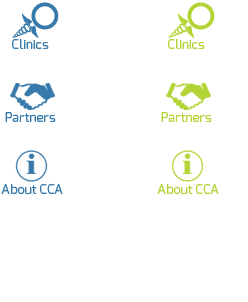
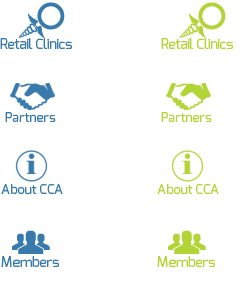
#26 - Changes & Enhancements

diff --git a/CCAMobile/Content/css/stylesheet.css b/CCAMobile/Content/css/stylesheet.css
@@ -137,7 +137,7 @@
 
 body {padding-left: 0px;padding-right:0px;background:#fff; font-family:exoregular; font-size:12px;}
 /*.body{background:#3ccdac;}*/
-#wrapper{position:absolute; z-index:1;bottom:55px; left:0;width:100%;overflow:auto;top:0px;}
+#wrapper{position:absolute; z-index:-1;bottom:55px; left:0;width:100%;overflow:auto;top:0px;}
 #scroller{position:absolute; z-index:1;/*	-webkit-touch-callout:none;*/-webkit-tap-highlight-color:rgba(0,0,0,0);width:100%;padding:0;}
 .cca_continer{padding:2px;}
 .cca_continer .row-fluid .span6 {width:50%; margin-left:0;}
@@ -147,7 +147,7 @@ body {padding-left: 0px;padding-right:0px;background:#fff; font-family:exoregula
 .clients_boxes img{display: table-cell;max-height: 40px; display:table-cell; margin:auto;vertical-align:middle;}
 .clients_boxes, .clients_box_big{ background:#fff; text-align: center; vertical-align: middle; }
 .clients_boxes img, .clients_box_big img{display: block; margin: auto;vertical-align: middle; padding-top: 10px; }
-.clients_box_big{min-height:154px; background:none; max-height:154px}
+.clients_box_big{ background:none;z-index:10}
 .cca_continer [class*="span"], .cca_continer .uneditable-input[class*="span"], .cca_continer .row-fluid [class*="span"] {float: left;}
 .header .row-fluid .span6, .header .row-fluid .span3 {margin-left:0; float:left;}
 .header .row-fluid .span6 {width:50%; }
@@ -164,16 +164,19 @@ body {padding-left: 0px;padding-right:0px;background:#fff; font-family:exoregula
 .marginT54{ margin-top:53px;}
 .marginT40{ margin-top:40px;}
 .footer {position:absolute; z-index:2;bottom:0; left:0;width:100%;height:55px; background: url(../images/footer_bg.png) repeat-x left top;padding:0;border-top:1px solid #1f3d54;}
-.footer div{ float:left;width: 33.33333%; text-align:center; color:#fff}
+.footer div{ float:left;width: 25%; text-align:center; color:#fff}
 .footer div a{ }
 .footer div a{  border-left:2px solid #003a64; height:54px; display:block; vertical-align:middle }
-.footer div a.clinic img{ background:url(../images/footer_icons.png) no-repeat left top;}
+.footer div a.clinic img{ background:url(../images/footer_icons.png) no-repeat 5px top;}
 .footer div a.partners img{ background:url(../images/footer_icons.png) no-repeat left -73px;}
 .footer div a.aboutcca img{ background:url(../images/footer_icons.png) no-repeat left -144px;}
+.footer div a.members img{ background:url(../images/footer_icons.png) no-repeat left -217px;}
 .footer div:hover a.clinic img, .footer div.active a.clinic img{ background:url(../images/footer_icons.png) no-repeat -156px top;}
 .footer div:hover a.partners img, .footer div.active a.partners img{ background:url(../images/footer_icons.png) no-repeat -156px -73px;}
 .footer div:hover a.aboutcca img, .footer div.active a.aboutcca img{ background:url(../images/footer_icons.png) no-repeat -156px -144px;}
+.footer div:hover a.members img, .footer div.active a.members img{ background:url(../images/footer_icons.png) no-repeat -156px -217px;}
 .footer div a img{ width:62px; height:54px;}
+.footer #clinicsTab a img{ width:84px; height:54px;}
 .switch_div{ margin: auto; width:40%; text-align: center}
 .register-switch {height: 32px;margin-top:5px;padding: 4px;background: url(../images/switch_bg.png) repeat-x left top;border-radius: 2px;
   /*background-image: -webkit-linear-gradient(top, #60a83a, #7dbe52);
@@ -285,29 +288,38 @@ filter: progid:DXImageTransform.Microsoft.gradient( startColorstr='#d3e6f5', end
 .splash_logo_splitter{background: url(../images/separator_shadow.png) no-repeat center top; border-top:1px solid #c0cdd6}
 #wrapper.splash_header_top{ top:160px; bottom:0;}
 #wrapper.wrapper_top{top: 53px;background: url(../images/separator_shadow.png) no-repeat center top; }
-.spalsh_logo{height:115px;border:0px;cursor: pointer;}
+.spalsh_logo{border:0px;cursor: pointer;}
 .splash_headerBG{background:#fff url(../images/header_top_bg.png) no-repeat center top;}
 .splash_headerBottom{ background: url(../images/separator_shadow.png) no-repeat center top; border-top: 1px solid #c0cdd6; height: 20px; margin: auto;width:100%;  }
+.home_headerBottom{ background: url(../images/app_cca_spl_bg2.png) repeat-x left top; height: 24px; margin: auto;width:100%;  }
 .padding4{ padding: 4px;}
 .btn-default {background-color: #074471;border-color: #13537f; color: #fff;}
 .btn-default:hover,.btn-default:focus,.btn-default:active,.btn-default.active,.open .dropdown-toggle.btn-default{background-color: #074471;border-color: #13537f; color: #fff;}
 .header_spinner{margin: 10px 0 0 10px;}
+.homepage_body_bg{background: url(../images/cca_homepage_bg.png) repeat left top; }
 @media screen and (min-width:768px){
     .partner_logos3 li{ float: left;}
 }
 @media (min-width: 320px) {  
   .modal_top{margin-top:30%;}
   .map_canvas{height:430px;}
+  .clients_box_big{min-height:90px; max-height:90px; margin-top:180px}
 }
 @media (min-width: 480px) {  
   .modal_top{margin-top:10%;}
   .map_canvas{height:140px;}
+   .clients_box_big{min-height:118px; max-height:118px; margin-top: 75px}
+}
+@media (min-width: 640px) {  
+  .clients_box_big{min-height:150px; max-height:150px; margin-top: 75px}
 }
 @media (min-width: 768px) {  
   .modal_top{margin-top:40%;}
   .map_canvas{height:800px;}
+   .clients_box_big{min-height:154px; max-height:154px; margin-top: 300px}
 }
 @media (min-width: 1024px) {  
   .modal_top{margin-top:25%;}
   .map_canvas{height:1000px;}
+   .clients_box_big{min-height:154px; max-height:154px; margin-top:350px}
 }

diff --git a/CCAMobile/ios.html b/CCAMobile/ios.html
@@ -25,7 +25,7 @@
         <script type="text/javascript" src="Content/js/ajaxcalls.js"></script>
         <script type="text/javascript" src="Content/js/index.js"></script>
     </head>
-    <body>
+    <body class="homepage_body_bg">
         <div id="errorModal" class="modal fade error_modal modal_top" aria-hidden="false" aria-labelledby="Error Modal Label" role="dialog" tabindex="-1">
             <div class="modal-header">
                 <button type="button" class="close" data-dismiss="modal" aria-hidden="true">x</button>
@@ -70,14 +70,14 @@
         <div id="splash_header" class="splash_headerBG wrapper_top">
             <div class="row-fluid">
                 <div class="span12">
-                    <div class="clients_box_big">
-                        <img src="Content/images/login_logo.png" align="absmiddle" onclick="loadDashboard();" class="spalsh_logo"/>
+                    <div class="clients_box_big"  >
+                         <img src="Content/images/cca_homepage_logo.png" align="absmiddle" onclick="loadDashboard();" class="spalsh_logo" />
                     </div>
                 </div>
             </div>
-            <div class="row-fluid">
-                <div class="span12">
-            <div class="splash_headerBottom"></div>
+            <div class="row-fluid" >
+                <div class="span12" style="min-height:10px;">
+                    <div class="home_headerBottom"></div>
                 </div>
             </div>
         </div>
@@ -112,7 +112,8 @@
         <div id="footer" class="footer" style="display: none;">            
             <div id="clinicsTab"><a href="#" class="clinic" onclick="loadClinics('Map');"><img src="Content/images/spacer.png" /></a></div>
             <div id="partnersTab"><a href="#" class="partners" onclick="loadPartners()"><img src="Content/images/spacer.png" /></a></div>
-            <div id="aboutCCATab"><a href="#" class="aboutcca" onclick="loadAboutCCA();"><img src="Content/images/spacer.png" /></a></div>            
+            <div id="aboutCCATab"><a href="#" class="aboutcca" onclick="loadAboutCCA();"><img src="Content/images/spacer.png" /></a></div>
+            <div id="membersTab"><a href="#" class="members" onclick="loadMembers();"><img src="Content/images/spacer.png" /></a></div>
         </div>
         
         <script type="text/javascript">

diff --git a/CCAMobile/Content/js/ajaxcalls.js b/CCAMobile/Content/js/ajaxcalls.js
@@ -11,7 +11,7 @@ function showIndexPageResponseHandler(){
 
 function loadDashboard(){
     clearInterval(splashIntervalId);
-    loadClinics('Map');
+    loadClinics('List');
 }
 
 /* Display Clinics Starts Here */
@@ -47,6 +47,7 @@ function loadClinics(target){
     $("#clinicsTab").addClass("active");
     $("#partnersTab").removeClass("active");
     $("#aboutCCATab").removeClass("active");
+    $("#membersTab").removeClass("active");
     $("#clinics_Map_Switch").removeAttr('checked');
     $("#clinics_List_Switch").removeAttr('checked');
     $("#backButton").hide();
@@ -223,6 +224,7 @@ function loadPartners(){
     $("#clinicsTab").removeClass("active");
     $("#partnersTab").addClass("active");
     $("#aboutCCATab").removeClass("active");
+    $("#membersTab").removeClass("active");
     ajaxRequest("getPartners", "", loadPartnersResponseHandler);
 }
 
@@ -253,6 +255,7 @@ function loadAboutCCA(){
     $("#clinicsTab").removeClass("active");
     $("#partnersTab").removeClass("active");
     $("#aboutCCATab").addClass("active");
+    $("#membersTab").removeClass("active");
     ajaxRequest("getAboutUs", "deviceAgent="+deviceAgent, loadAboutCCAResponseHandler);
 }
 
@@ -273,3 +276,24 @@ function loadAboutCCAResponseHandler(loadAboutCCAResponse){
 }
 
 /* Display About CCA Ends Here */
+
+/* Display Members Starts Here */
+
+function loadMembers(){
+    showLoadingIndicator();    
+    my.utils.renderViewTo('Views/members.html', null, 'mainContentDiv', function(){
+        $("#clinicsTab").removeClass("active");
+        $("#partnersTab").removeClass("active");
+        $("#aboutCCATab").removeClass("active");
+        $("#membersTab").addClass("active");
+    
+        $("#headerLogo").show();
+        $("#backButton").hide();
+        $("#clinicsSwitchDiv").hide();
+        $("#shareIcon").hide();
+        refreshBodyScroll();
+        hideLoadingIndicator();
+    });
+}
+
+/* Display Members Ends Here */

diff --git a/CCAMobile/Content/js/index.js b/CCAMobile/Content/js/index.js
@@ -2,7 +2,7 @@ var globalspace = new Object();
 var deviceAgent = '';
 var bodyScroll,modalScroll;
 var notificationTitle = "CCA";
-var timeInterval = 5 *1000;
+var timeInterval = 30 *1000;
 var childBrowser;
 var distance = 25;
 var splashIntervalId;
@@ -41,7 +41,9 @@ function onDeviceReady() {
     
     initializeBodyScroll();
     
-    showIndexPage();
+    splashIntervalId = setTimeout( loadDashboard, timeInterval);
+    
+    //showIndexPage();
 }
 
 function onResume(){

diff --git a/CCAMobile/Views/members.html b/CCAMobile/Views/members.html
@@ -2,6 +2,13 @@
     <div class="row-fluid">
         <div class="span12">
             <div class="padding20">
+                <h2>Members</h2>
+            </div>
+        </div>
+    </div>
+    <div class="row-fluid">
+        <div class="span12">
+            <div class="padding20">
                 <div class="members_title"> <label>Executive Members</label></div>
             </div>
         </div>
